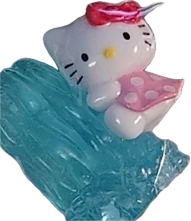
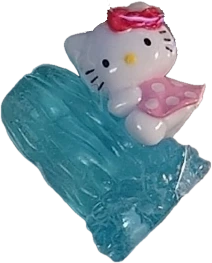
Replace fifteen cut-outs with hand-cut versions
Owner recut these by hand. Every one is better than the automatic mask
produced, and two fix things the algorithm provably could not:

  0006  the seller's red cloth is gone. Colour-keying it out was impossible --
        the cloth and Kitty's shaded white overlap on both luminance and hue,
        so every threshold ate into her
  0015  the plastic-bag flare in the corner is gone

Others gained framing the crop-box approach could not find: 0014 has her whole
body rather than just the head, 0004 is a single figure instead of the
landscape pair, 0003 shows the full 浜名湖 base, 0027 the whole plane.

Also loosens the installer's file matching. It globbed strictly for NNNN.png
and so silently found nothing, because macOS names its output
"0016 Background Removed.png". Any filename starting with the four-digit charm
number now counts, across png/jpg/webp/tiff.

The alpha validation earned its place on this batch: 0008 was a .jpg and was
rejected rather than installed as a charm on a white brick.

diff --git a/scripts/install_cutouts.py b/scripts/install_cutouts.py
@@ -24,7 +24,12 @@ DRAFTS = "photos/drafts"
 OWN = {"0026","0027","0029","0030","0031","0034","0035","0036","0037"}  # our own photos
 
 def main():
-    files = sorted(glob.glob(f"{DRAFTS}/[0-9][0-9][0-9][0-9].png"))
+    # Any file whose name STARTS with the four-digit charm number counts.
+    # macOS names its cut-outs "0016 Background Removed.png", and being strict
+    # about the rest of the filename just means silently finding nothing.
+    files = sorted(f for f in glob.glob(f"{DRAFTS}/*")
+                   if re.match(r"^\d{4}", os.path.basename(f))
+                   and os.path.splitext(f)[1].lower() in (".png", ".jpg", ".jpeg", ".webp", ".tif", ".tiff"))
     if not files:
         print(f"Nothing to install. Put NNNN.png files in {DRAFTS}/ first.")
         return 0
